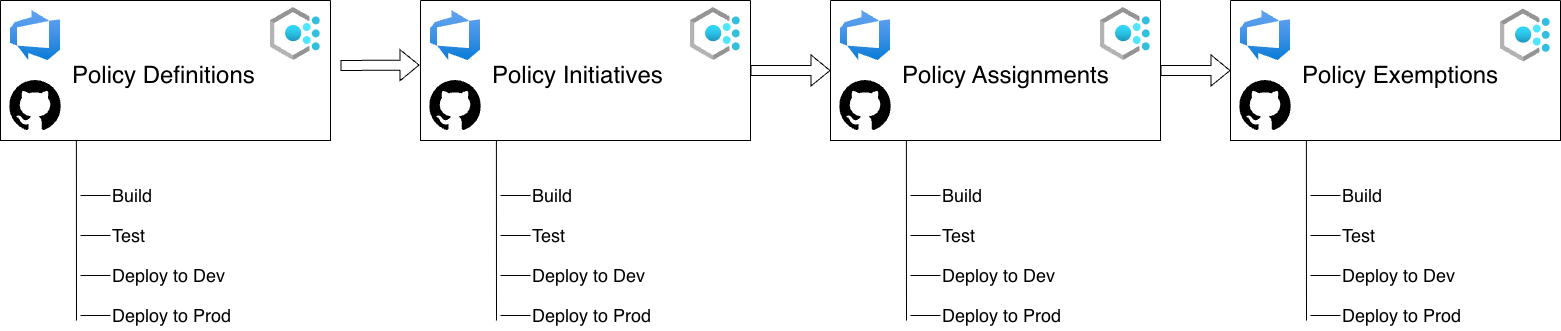
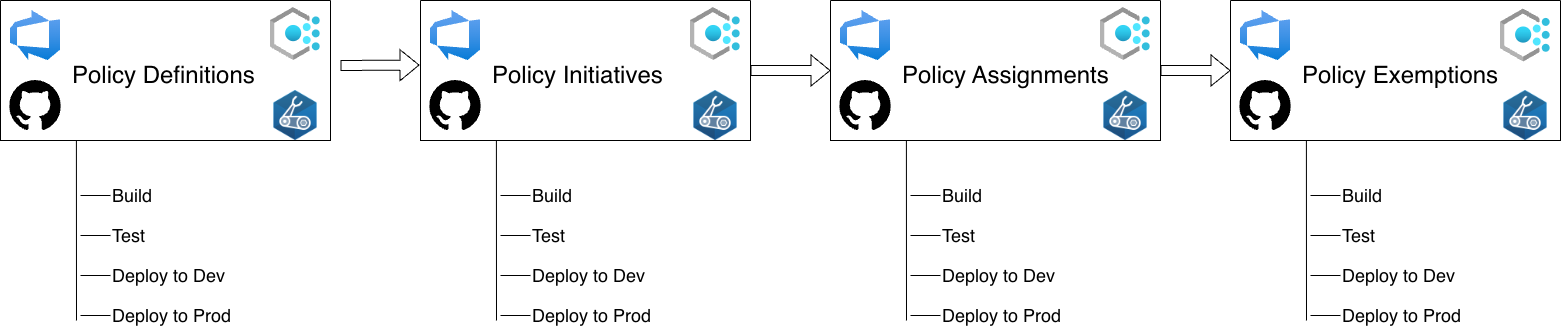
Update high-level process diagram. new FAQs

diff --git a/docs/FAQ.md b/docs/FAQ.md
@@ -8,6 +8,9 @@
     - [How do I exclude certain Pester tests from being executed in the Azure DevOps pipelines or GitHub Actions?](#how-do-i-exclude-certain-pester-tests-from-being-executed-in-the-azure-devops-pipelines-or-github-actions)
     - [Why do the policy assignment and exemption Bicep templates use custom definition files instead of Bicep parameter files?](#why-do-the-policy-assignment-and-exemption-bicep-templates-use-custom-definition-files-instead-of-bicep-parameter-files)
     - [I'm using self-hosted runners / agents for the pipelines / workflows. What software and tools do I need to install on the runners / agents?](#im-using-self-hosted-runners--agents-for-the-pipelines--workflows-what-software-and-tools-do-i-need-to-install-on-the-runners--agents)
+    - [Can I re-use the ADO pipeline templates and GitHub custom actions defined in this repository for other Azure IaC implementation?](#can-i-re-use-the-ado-pipeline-templates-and-github-custom-actions-defined-in-this-repository-for-other-azure-iac-implementation)
+    - [Why do the pipelines / workflows use a custom Bicep deployment script instead of the built-in Azure DevOps and GitHub Actions tasks for Bicep deployment?](#why-do-the-pipelines--workflows-use-a-custom-bicep-deployment-script-instead-of-the-built-in-azure-devops-and-github-actions-tasks-for-bicep-deployment)
+    - [Does the Bicep / ARM templates size limit impact the deployment of the policy resources in this repository?](#does-the-bicep--arm-templates-size-limit-impact-the-deployment-of-the-policy-resources-in-this-repository)
   - [Azure DevOps Pipelines](#azure-devops-pipelines)
     - [How do I configure the ADO pipelines to use self-hosted agents instead of Microsoft-hosted agents?](#how-do-i-configure-the-ado-pipelines-to-use-self-hosted-agents-instead-of-microsoft-hosted-agents)
     - [Do these pipelines support Azure DevOps servers?](#do-these-pipelines-support-azure-devops-servers)
@@ -15,6 +18,7 @@
     - [How do I configure the GitHub Actions workflows to use self-hosted runners instead of GitHub-hosted runners?](#how-do-i-configure-the-github-actions-workflows-to-use-self-hosted-runners-instead-of-github-hosted-runners)
   - [Policy Resources](#policy-resources)
     - [How does the Policy Assignments pipeline / workflow populate the non-compliance messages for each policy assignment?](#how-does-the-policy-assignments-pipeline--workflow-populate-the-non-compliance-messages-for-each-policy-assignment)
+    - [Why do we have non-compliance messages defined for each policy assignment? Can't we just use the default message for all policy assignments?](#why-do-we-have-non-compliance-messages-defined-for-each-policy-assignment-cant-we-just-use-the-default-message-for-all-policy-assignments)
     - [Do I need to update the Bicep templates when I add new policy resources to the repository?](#do-i-need-to-update-the-bicep-templates-when-i-add-new-policy-resources-to-the-repository)
 
 ## Pipeline Configurations
@@ -39,7 +43,7 @@ Install-Module -Name AzPolicyTest -Scope CurrentUser
 #Policy Definition tests
 $results = Test-AzPolicyDefinition -Path <path_to_policy_definitions_folder>
 
-#policy Initiative tests
+#Policy Initiative tests
 $results = Test-AzPolicyInitiative -Path <path_to_policy_initiatives_folder>
 
 #List the test names and tags
@@ -120,6 +124,51 @@ The following software and tools need to be installed on the self-hosted runners
 - PSRule PowerShell module (latest version)
 - PSRule.Rules.Azure PowerShell module (latest version)
 - PowerShell-Yaml PowerShell module (latest version, GitHub action runners only)
+
+</details>
+
+### Can I re-use the ADO pipeline templates and GitHub custom actions defined in this repository for other Azure IaC implementation?
+
+<details>
+<summary>Click to expand</summary>
+Yes. All the ADO templates and GitHub custom actions defined in this repository are designed to be reusable for other Azure IaC implementations. You can easily modify the existing pipeline templates and custom actions to fit the specific requirements of your Azure IaC implementation.
+</details>
+
+### Why do the pipelines / workflows use a custom Bicep deployment script instead of the built-in Azure DevOps and GitHub Actions tasks for Bicep deployment?
+
+<details>
+<summary>Click to expand</summary>
+We moved away from using the built-in Azure DevOps task for ARM / Bicep template deployment because it does not support retrying failed deployments.
+
+We have experienced some random transient failures in the Bicep deployments in our pipelines in customer environments which had nothing to do with the Bicep templates or the Azure resources being deployed. These transient failures can be caused by various factors such as temporary network issues, service availability, or throttling by Azure.
+
+To overcome the challenge and prevent these transient issues from causing pipeline failures, we implemented a custom Bicep deployment script that includes a retry mechanism with exponential backoff. This allows the deployment to automatically retry in case of transient failures, which can significantly improve the reliability of the deployments in the pipelines.
+
+By default, the HTTP timeout value is set to 100 seconds in the Az PowerShell module and it is not configurable. This has also caused issues in the past. We then moved away from using the Az PowerShell module for Bicep deployments and developed the custom Bicep deployment script using the ARM REST API directly, which allows us to parameterize a longer timeout value for the deployment operations.
+
+</details>
+
+### Does the Bicep / ARM templates size limit impact the deployment of the policy resources in this repository?
+
+<details>
+<summary>Click to expand</summary>
+The Bicep / ARM templates have the following size limits:
+
+- The compressed template size itself can’t exceed 4 MB, and each individual resource definition can’t exceed 1 MB after compression.
+- 256 parameters
+- 256 variables
+- 800 resources (including copy count)
+- 64 output values
+- 24,576 characters in a template expression
+
+Although we have never encountered these limits in customer environments when deploying policy resources using the pipelines and workflows in this repository, it is still possible to hit these limits if you have a large number of policy resources to deploy.
+
+If you have encountered these limits, you can consider the following approaches to work around the limits:
+
+- Split policy resources into batches.
+- Duplicate the test and deployment stages / jobs in the pipelines / workflows to deploy each batch separately.
+
+>:memo: The details of the Bicep / ARM template limits can be found in the official Microsoft documentation: [Resolve errors for job size exceeded](https://learn.microsoft.com/azure/azure-resource-manager/troubleshooting/error-job-size-exceeded?tabs=bicep).
 </details>
 
 ## Azure DevOps Pipelines
@@ -163,6 +212,19 @@ The script does the following:
 2. If a policy initiative is assigned, the script will iterate through all the policies included in the initiative and add a non-compliance message for each policy in the initiative with the format `PolicyID: <policy reference id> Violation in <policy initiative name> Initiative - '<member policy display name>'`
 </details>
 
+### Why do we have non-compliance messages defined for each policy assignment? Can't we just use the default message for all policy assignments?
+
+<details>
+<summary>Click to expand</summary>
+A negative feedback we often receive from end users is that the default non-compliance message for Azure Policy is too generic and does not provide enough information for them to understand why they are non-compliant and what they need to do to become compliant.
+
+To address this issue using the native capability, we can define custom non-compliance message for each member policy for the assigned policy initiatives, and a default message for the policy assignment.
+
+However, this approach is very tedious and error-prone to do manually, especially when there are a large number of policy assignments and initiatives with multiple member policies included in the initiatives.
+
+Therefore we have automated the process of populating the non-compliance messages for each policy assignment in the pipeline / workflow. The messages for the individual member policy definitions in the initiatives include the display name of the member policy. They should provide more clarity to the end users on why they are non-compliant and what they need to do to become compliant.
+</details>
+
 ### Do I need to update the Bicep templates when I add new policy resources to the repository?
 
 <details>
@@ -172,5 +234,4 @@ No, you do not need to update the Bicep templates when you add new policy resour
 The ADO pipelines and GitHub Actions workflows are designed to automatically pick up all the files from the designated folders for policy definitions, initiatives, assignments, and exemptions. As long as you add new policy resources following the existing structure and format, the pipelines and workflows will be able to deploy them without any modifications to the Bicep templates.
 
 This approach greatly simplifies the process and Bicep skills required for the Azure Policy administrators. The Bicep templates are essentially hidden from the policy administrators.
-
 </details>
